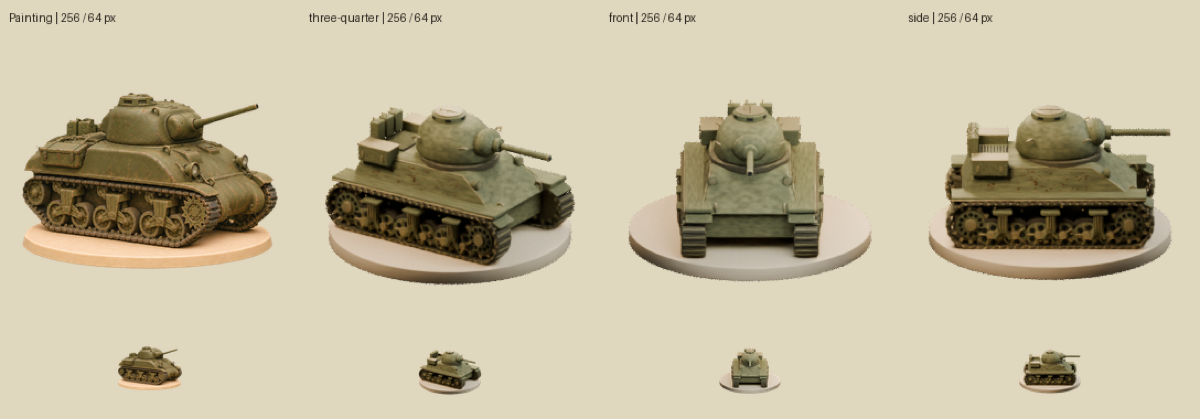
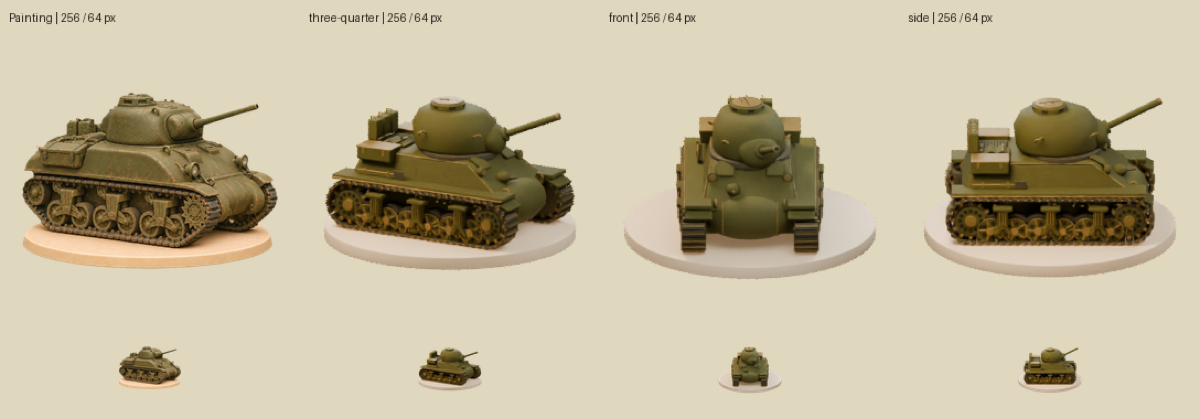
3D spearman interim review images

diff --git a/tools/art/anim3d/review/tank-log.md b/tools/art/anim3d/review/tank-log.md
@@ -50,3 +50,7 @@
 - Opened all existing c/f and five e strips before editing. Requested gpu-logs-tank-r1.log, tank-round1.mp4 and units/tank/gpu.sh are absent in this worktree/shared output; cannot claim a GPU pass or inspect nonexistent video frames. Saved previous masters and frames under masters/tank/round1-backup.
 - Honest 256px critique: narrow bulbous turret/cupola, small and high mantlet, raised square stowage, mismatched gun line, regular muddy wheel details and obvious polygon flames; painted projection covers too few surfaces and loses detail under double lighting. Stone is warm but footprint/height differs. At 64px the correct WWII tank identity survives, yet the silhouette is taller/boxier at the rear and less cohesive than the painting. NOT PASS.
 - Read the complete playbook and all common/tank feedback, art direction, asset sources and all six Blender skills. Applying modeling to cast joins/bevels/straps/folded stowage; materials to dielectric paint and generated olive fallback; cameras to registration; lighting to warm key/cool rim; animation to linear mechanics; rendering to serial CPU previews, 512/256 masters and validated trimmed atlas/video.
+
+- Resumed WIP 39d259de; opened latest f-restpose and g-delivery before edits. At 256px turret is too round/tall, mantlet/gun registration is off, rear boxes are oversized and wheels lack painted depth; at 64px WWII identity is clear but proportions remain distinguishable. Old atlas quality 54 fails the new quality floor. No PASS. Applying all six Blender skills and testing the WIP full-surface projection, generated olive fill, folded canvas/straps and trimmed delivery.
+- Emitted tank-b-plain.png from actual b renders; visual review pending.
+- Emitted tank-c-textured-lit.png from actual c renders; visual review pending.
